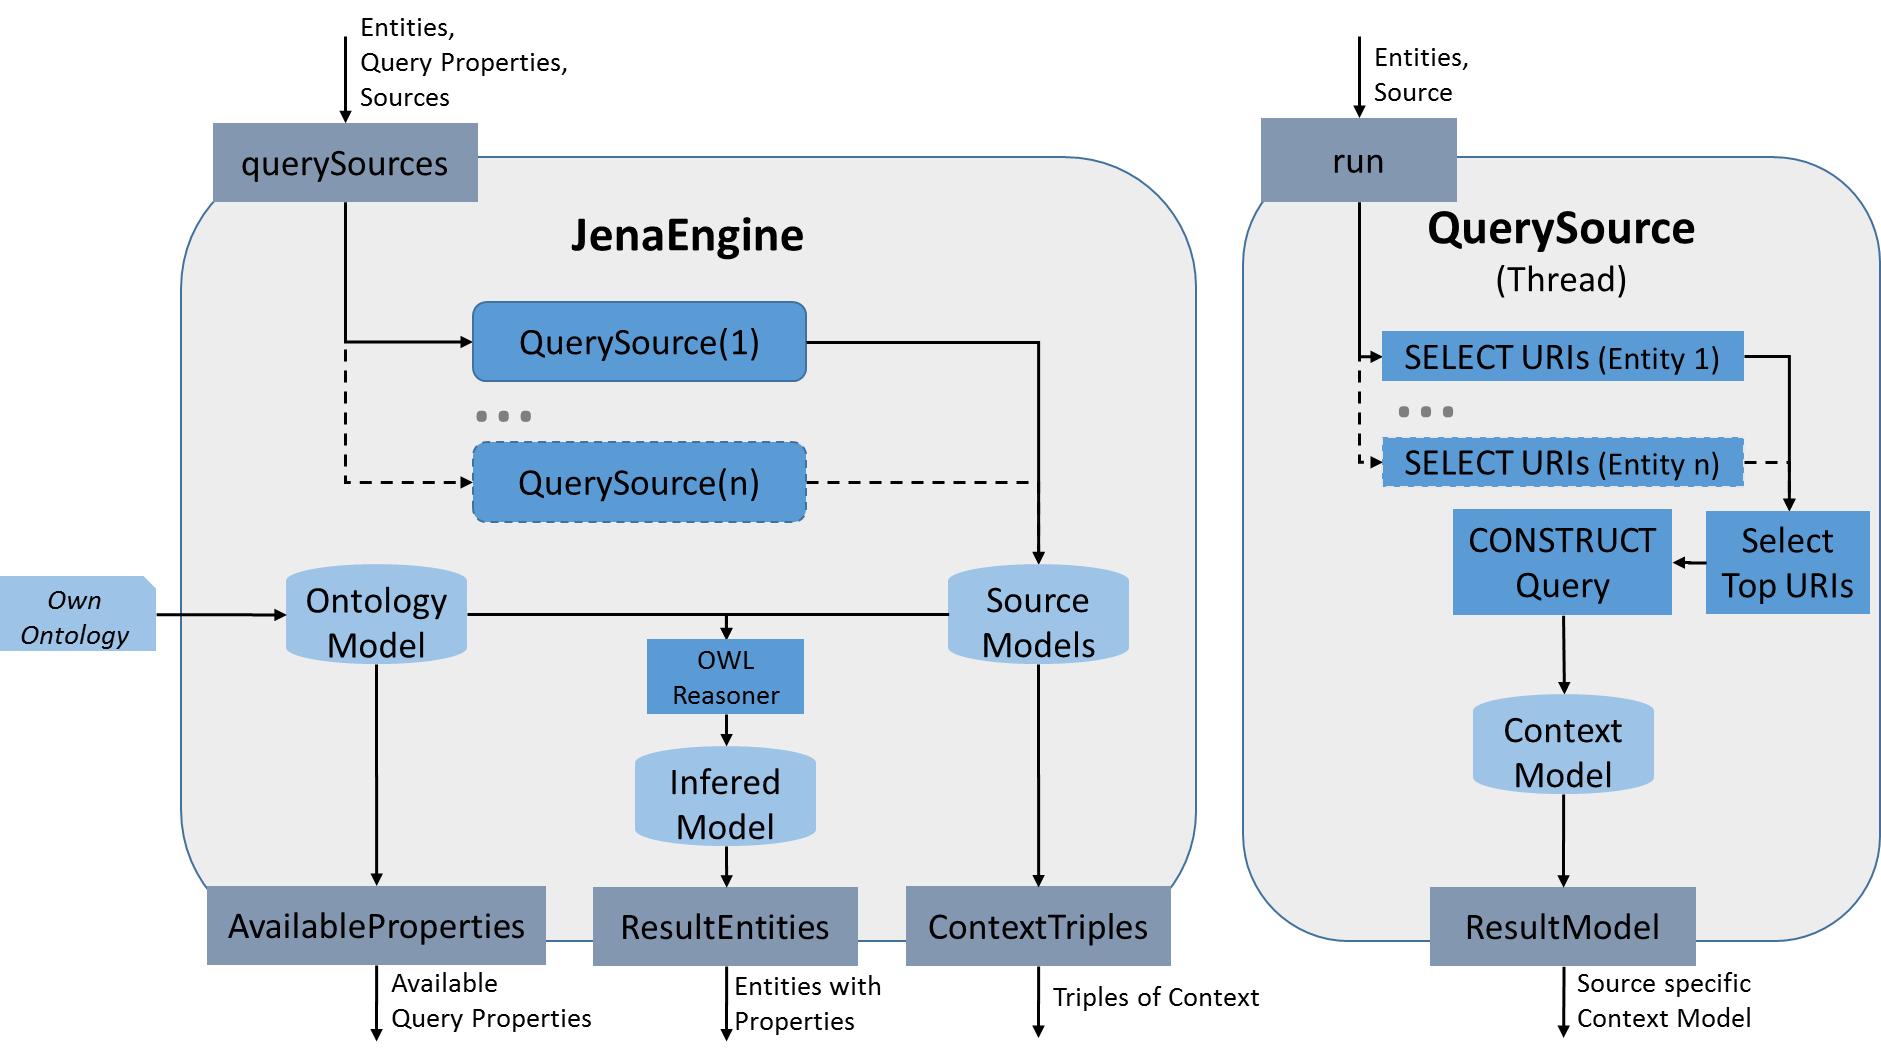
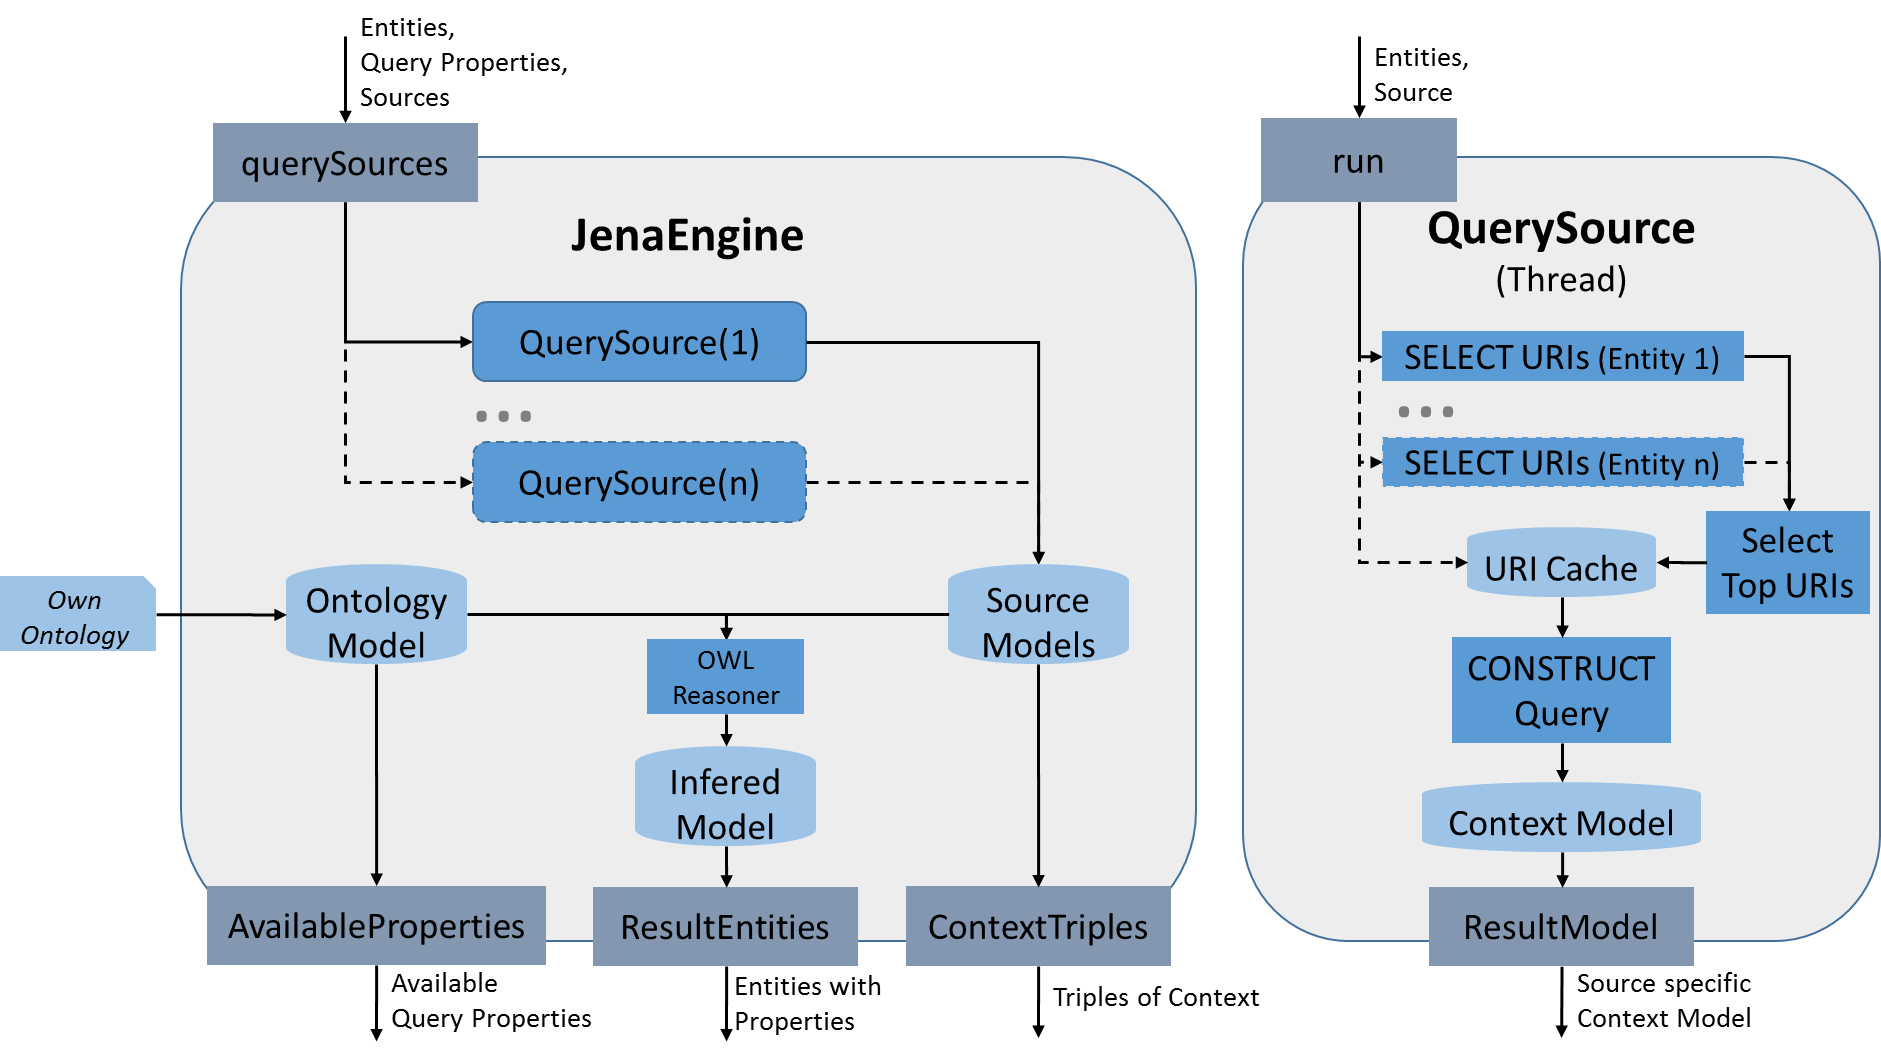
Report - most chapters, mainly lessons learned

Changed region(s): [[0.74, 0.4688, 0.925, 0.8125], [0.7709, 0.875, 0.8942, 0.9062], [0.8017, 0.9375, 0.8325, 0.9688]]

diff --git a/ProjectReport/parts/3_techniques.tex b/ProjectReport/parts/3_techniques.tex
@@ -52,11 +52,13 @@ After identifying the named entity and its entity type these information are han
 \end{figure}
 
 \paragraph{Querying Sources}
-All sources are queried the same way via class QuerySource as illustrated in Figure \ref{fig:details_query} on the right hand side. Source queries could be generalized since the only differences are the endpoint URLs and entity type URIs as described before. In order to derive properties and context of a source based on the names and types of the entities, multiple queries are executed in two steps.
+All sources are queried the same way via class QuerySource as illustrated in Figure \ref{fig:details_query} on the right hand side. Source queries are generalized since the only differences are the endpoint URLs and entity type URIs as described before. In order to derive properties and context of a source based on the names and types of the entities, multiple queries are executed in two steps.
 
 First step is the identification of URI candidates by performing a reg-ex based search per identified entity in the context. These queries run in parallel so the system can handle multiple entities without significant increase in runtime. Technically multiple \textit{SELECT-Queries} are executed, as shown in Figure \ref{fig:details_query}. The results of these first queries are URIs which meet the type definition and the reg-ex. The reg-ex allows up to 10 characters before and after the identified name and a period is replaces with ".*" to allow a match with shortened names. In cases there are too many matches (currently the threshold is five), an extended logic is used to reduce the amount of URI candidates. 
 
-The approach for URI selection is based on a score which is calculated for each URI by multiplying a \textit{relation score} and the normalized edit distance of the URI label and the entity name. Therefore the source queries provide a count of relations available per URI. This information is used to calculate the \textit{relation score}, which is a relative score, being 1 for the URI with the most relations. The top five URIs with the highest score are selected. Less URIs are selected if there are not enough URIs having at least a score value of at least 75\% of the highest score value.
+The extended logic for URI selection is based on a score which is calculated for each URI by multiplying a \textit{relation score} and the normalized edit distance of the URI label and the entity name. Therefore the source queries provide a count of relations available per URI. This information is used to calculate the \textit{relation score}, which is a relative score, being 1 for the URI with the most relations. The top five URIs with the highest score are selected. Less URIs are selected if there are not enough URIs having at least a score value of at least 75\% of the highest score value.
+
+Since this URI identification process is the most expensive in the whole process, a cache was introduced which stores  the labels per source and entity type for which URIs were already derived. So in case a label appears a second time for the same source and entity type, the cached URIs are reused instead of running queries again.
 
 In a second step the identified URI candidates are used to query the source specific context. So all properties are queried as well as direct and in-direct relations between the entities. Furthermore the labels of all elements are derived as well as OWL \textit{sameAs} relations. 
 This last query is a \textit{Construct-Query} and therefore returns a model which is the result of the source queries, as shown in Figure \ref{fig:details_query}. 
@@ -65,8 +67,9 @@ This last query is a \textit{Construct-Query} and therefore returns a model whic
 After all source queries are finished the derived models are added to the same local model, as illustrated in Figure \ref{fig:details_query} on the left hand side. This model is combined with an own ontology defined for this project. This own ontology mainly consists of OWL \textit{euivelantProperty} definitions for own properties which group the corresponding sources specific properties. Furthermore there is a mapping of own classes representing the entity types to the corresponding source specific class definitions of the entities. Therefore the OWL \textit{equivalentClass} property is used. For inference the \textit{OWLMicroReasoner} is used. More complex OWL reasoner need much more time, so they are not used for performance reasons. 
 
 Before the properties are derived from this inferred model, one URI per entity is derived across sources. The one with most relations is chosen. 
-For these URIs the properties are then queried based on the own ontology and returned as result. If there are multiple result values for a property all values are returned. If the same value occurs multiple times for the same property, a count is increased. For numeric values additional logic is applied to ensure proper formatting and unit references. All property values including a language tag which is not empty nor English are discarded.
+For these URIs the properties are then queried based on the own ontology and returned as result. If there are multiple result values for a property all values are returned. If the same value occurs multiple times for the same property, a count is increased. For numeric values additional logic is applied to ensure proper formatting and unit references. All property values including a language tag which is not empty nor English are discarded in order to prevent the texts being shown in multiple languages. As defined before the application is English only. 
 
+Furthermore the result context in terms of direct and indirect relations between the entities is returned as well. For the context the original relations are used with there labels, which is outlined in \ref{fig:details_query}. So relations are returned as well, which are not specified in the own ontology. 
 
 \subsection{Server} 
 \label{sec:server}
@@ -92,8 +95,6 @@ The Chrome extension handles communication to and from the server and shows the 
 
 \paragraph{Loading triples}
 If the user has marked any text on the website this is used as input for the second API call. After the HTTP request has finished loading a popup showing the results is generated and injected into the website. A section is built for each entity showing the triples that were retrieved. Any duplicates are removed. Values with the same relation type (e.g. \textit{abstract}) are compared to each other with the Jaccard similarity measure. If the similarity crosses a threshold the values are hidden as similar attributes. The user can view the attributes by clicking on them if he wishes to. We treated further methods of data fusion, such as trying out other similarity measures, as out of scope, as described in the project outline. 
-
-
 
 
 \paragraph{Options}

diff --git a/ProjectReport/parts/6_lessonsLearned.tex b/ProjectReport/parts/6_lessonsLearned.tex
@@ -1,17 +1,36 @@
 \section{Lessons learned}
+During this project we failed often but early and learned therefore a lot... (omg... hab ich das gerade echt geschrieben?)
+
+\subsection{Working with SPARQL Endpoints}
+From the lectures all sound well defined even though a bit tricky because of different way to express the same knowledge. But it turned ou that the trouble starts much earlier with the SPARQL endpoints themselves.  DBPedia was a good starting point even though it is sometimes no available or slow. So well functioning and known public endpoints are quite occupied. So a reasonable mechanism of these endpoints is to reject execution of queries if the estimated runtime is too long. However, it was very interesting to play around with the SPARQL explorer and learn in this way how to use SPARQL and its limitations. Some times the query just needed to be reformulated a bit such that the query could be optimized better\footnote{as describe at \url{https://github.com/openlink/virtuoso-opensource/issues/28}}.
+
+As described before the URI identification turned out to be the most expensive part so these queries were formulated as efficient as possible and executed in parallel. As soon as URIs are identified more complex queries are possible. That makes sense since the regex-based search of URIs requires parsing a lot of labels. In contrast URIs could be accessed directly if indexed properly. So formulating the queries for URI search in a way which is not rejected by the endpoint and is as performant as possible, was one of the biggest obstacles. In this context some fine tuning was necessary as well in order to optimize the matches of the regex-pattern and special handling  for example of locations because they often contain further region information like ``Rochester, New York''. That was solved with the previously described extended logic including a similarity score for URI labels. Encoding this into SPARQL was simply not possible.
+
+Furthermore many SPARQL enpoints are not active anymore or do not support SPARQL 1.1 which we used. So searching for potentially useful SPARQL endpoints was focused on technically aspects first. As described before  multiple endpoints have been integrated. But some turned out to be not really useful like the ones hosted by the UK government services. They have no OWL \textit{sameAs} definitions and therefore could not be matched.
+
+\subsection{Chrome Extension}
 Which challenges did you face?
-- Named Entity Identification as URI
-- Performance
-- Rejected queries
-- no sameAs definitions between data sets
+- Named Entity Identification as URI[DONE]
+- Performance[DONE]
+- Rejected queries[DONE]
+- no sameAs definitions between data sets[DONE]
 
 - setting up a Chrome extension that is reusable on every website. Injecting HTML on every site is straightforward but ensuring that it looks the same is more challenging because each website has its own CSS rules
 
 
 What were the biggest obstacles?
-- finding active and stable public SPARQL endpoints
+- finding active and stable public SPARQL endpoints [DONE]
 
 - finding a good way to visualize connections between entities: conceptually and technically
+
+
+\subsection{Potential Improvements and Outlook}
+For a productive solution hosting the datasets and using them via private SPARQL endpoints would be necessary in order to offer a stable service. That should not only improve stability but runtime as well. Scalability of the application should be quite good, since the most expensive part is already cached. 
+In order to stay flexible the integration of external/public services should still be possible. But the process should be adapted in order to minimize runtime impact of slow sources, as this is a limitation describe in section \ref{sec:Limits}. This could be solved by providing partial results to the end-user which are updated while the query processes are ongoing. A good example for such an approach is \url{http://factforge.net/relfinder}. Furthermore the ability to specify sources to be queried could be integrated in the customizing for the end user in order to allow manual (temporary) disabling of certain sources. 
+
+Furthermore the links between datasets in terms of OWL \textit{sameAs} definitions could be enriched by performing entity matching across sources like LINDA~\cite{boehm_linda:_2012} does. Since this process needs to run automated it could also be a potential source of failure. 
+
+Another aspect is the extensibility. The own ontology is already customizable via an ontology file. But the source specification is at the moment hard coded which could be easily exchanged with configuration via a configuration file defining the endpoint and the specific entity type URIs. 
 
 
 What would you do differently next time?

diff --git a/ProjectReport/parts/5_knownLimitations.tex b/ProjectReport/parts/5_knownLimitations.tex
@@ -1,15 +1,15 @@
 \section{Known limitations}
+\label{sec:Limits}
 To begin with, one limitation of the application is that it is restricted to English texts. This is because CoreNLP's English models are used by default. One solution to this would be to first use language detection on any input and to then use the corresponding model. Other languages such as German and Spanish are available for download\footnote{\url{http://nlp.stanford.edu/software/CRF-NER.shtml}}. 
 
-Another limitation depends on the input. If the input contains no named entities then it is impossible for the application to search for additional information. Conversely, the input can contain a large number of entities. In this case the waiting time may be very high, or the server may run out of memory. An improvement to both of these problems would be to cache commonly request entites locally, for example in Jena's TBD\footnote{\url{https://jena.apache.org/documentation/tdb/}}.  
+Another limitation depends on the input. If the input contains no named entities then it is impossible for the application to search for additional information. Conversely, the input can contain a large number of entities. In this case the waiting time may be very high, or the server may run out of memory. An improvement to both of these problems would be to cache commonly request entities locally, for example in Jena's TBD\footnote{\url{https://jena.apache.org/documentation/tdb/}}. [SASCHA: We already cache the URIs, only the context is queried each time, which is much more performant -> caching the whole context probably makes no sense. Since the URI search is run in parallel, the count of entities is not an issue (assuming infinite threads and a endpoint accepting many queries in parallel as well)]  
 
-Additionally, the input can contain ambiguous entities. One possibility where this happens is when named entities such as ``Mr. \texttt{\{surname\}}'' are found in the input. In this case many subjects with the surname may be found and the application must rely on scoring URIs as described in section \ref{sec:sparqlQueries}. 
+Furthermore the performance depends strongly on the selected sources. More precise, the runtime is determined by the slowest source because the results are derived context dependent (e.g. deriving the most relevant URI per entity across sources) and therefore the results are obtained as soon as the context is derived completely. 
+
+Additionally, the input can contain ambiguous entities. One possibility where this happens is when named entities such as ``Mr. \texttt{\{surname\}}'' are found in the input. In this case many subjects with the surname may be found and the application must rely on scoring URIs as described in section \ref{sec:sparqlQueries}. If a URI candidate is discarded because of a low source specific score, the URI will not be part of the context. But in some cases the correct URI can only be obtained based on relations in the context. This is because of simplified queries per entity for URI identification. More complex queries for context dependent URI identification are rejected by the endpoint.
 
 Lastly, the secure server (nginx, as described in section \ref{sec:server}) uses a self signed certificate. Given more time the server would be hosted on the internet instead of running it locally. A domain could then be set up, for which a secure certificate could be bought or generated. 
 
 
-
-
-Sascha?: We could mention papers describing techniques which could improve certain areas like LINDA \cite{boehm_linda:_2012} for entity matching. 
 
 

diff --git a/ProjectReport/parts/1_application.tex b/ProjectReport/parts/1_application.tex
@@ -3,4 +3,4 @@ The goal of this application is to allow a user browsing websites to automatical
 
 As such this application targets any user that is interested in supplementary information while browsing. By automating the process of looking up entities the user saves time as he does not have to manually visit other websites such as Wikipedia. 
 
-In addition, the application searches for information in many sources. This way the information does not stem from any one source but is the union of several sources.  During search the application retrieves only certain attributes. These attributes can be customized by the user, thus allowing him to decide which information should be retrieved. 
+In addition, the application searches for information in many sources. This way the information does not stem from any one source but is the union of several sources.  During search the application retrieves only certain attributes. These attributes can be customized by the user, thus allowing him to decide which information should be retrieved. For simplification the language focus of the application is English only.
